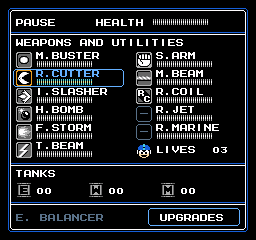
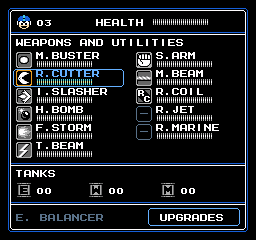
Move lives to header and remove PAUSE label

Changed region(s): [[0.5312, 0.5833, 0.7812, 0.6708], [0.0625, 0.0583, 0.2188, 0.1167], [0.8125, 0.6125, 0.9062, 0.6417]]

diff --git a/Assets/Mega Man/MM5/Pause Menu/Layout Review/README.md b/Assets/Mega Man/MM5/Pause Menu/Layout Review/README.md
@@ -39,3 +39,7 @@ User likes design and requests R.CUTTER instead of R. CUTTER. Both v2 snapshots/
 ### Separate lives counter
 
 User requests moving the life (not health) icon and adding numerical lives. V2 relocates the original MM5 head icon to136,142 in the spare slot below R.MARINE, alongside LIVES and illustrative03. Header now says HEALTH to distinguish it; native health bar coordinates/pixels unchanged. Original head pixel identity and health bar identity asserted.03 is a layout example only, not a starting-lives decision or live game value. No lives/inventory/controller code implemented. Spare slot now occupied by lives display; future optional equipment forms require reflow/page as already noted. Both selection snapshots updated.
+
+### Current header correction (supersedes lives-in-grid draft)
+
+User rejects lives placement in weapons/utilities and explicitly removes PAUSE text. Current v2: no PAUSE label; original head at16,13 and sample03 at36,19 in header. HEALTH label96,19 and original bar152,18 unchanged from prior header. No lives icon/text/count in weapon grid; spare utility slot remains free. Exact original head pixels and unchanged health bar asserted.03 still a static illustration, not live gameplay or an approved starting count. Both snapshots/metadata regenerated.

diff --git a/docs/pause-menu-reference-observations.md b/docs/pause-menu-reference-observations.md
@@ -81,3 +81,7 @@ User says design is good and requests no space after the period in weapon names:
 ## Separate lives counter requested
 
 User requests moving life icon (explicitly not health) and adding numbers. V2 original head moved from top-right to spare row below R.MARINE at136,142; LIVES label156,146 with03 example at212,146. Header renamed HEALTH at96,19, health bar152,18 unchanged. Tests assert relocated head exact source and native health bar bytes unchanged. Both selected snapshots/metadata updated.03 is illustrative, no starting-lives rule/gameplay implementation. Placement pending user review; spare slot now used for counter.
+
+## Corrected header: no PAUSE text, lives outside utility grid
+
+User rejects lives in weapon/utility section and says PAUSE text not needed. Supersedes previous spare-row lives placement: head16,13 plus sample03 at36,19 now top-left header; PAUSE removed. HEALTH96,19/bar152,18 retained, exact source pixels checked. No lives drawn in grid; spare utility row free again. Both v2 snapshots and metadata updated, no gameplay changes or starting-lives decision.
